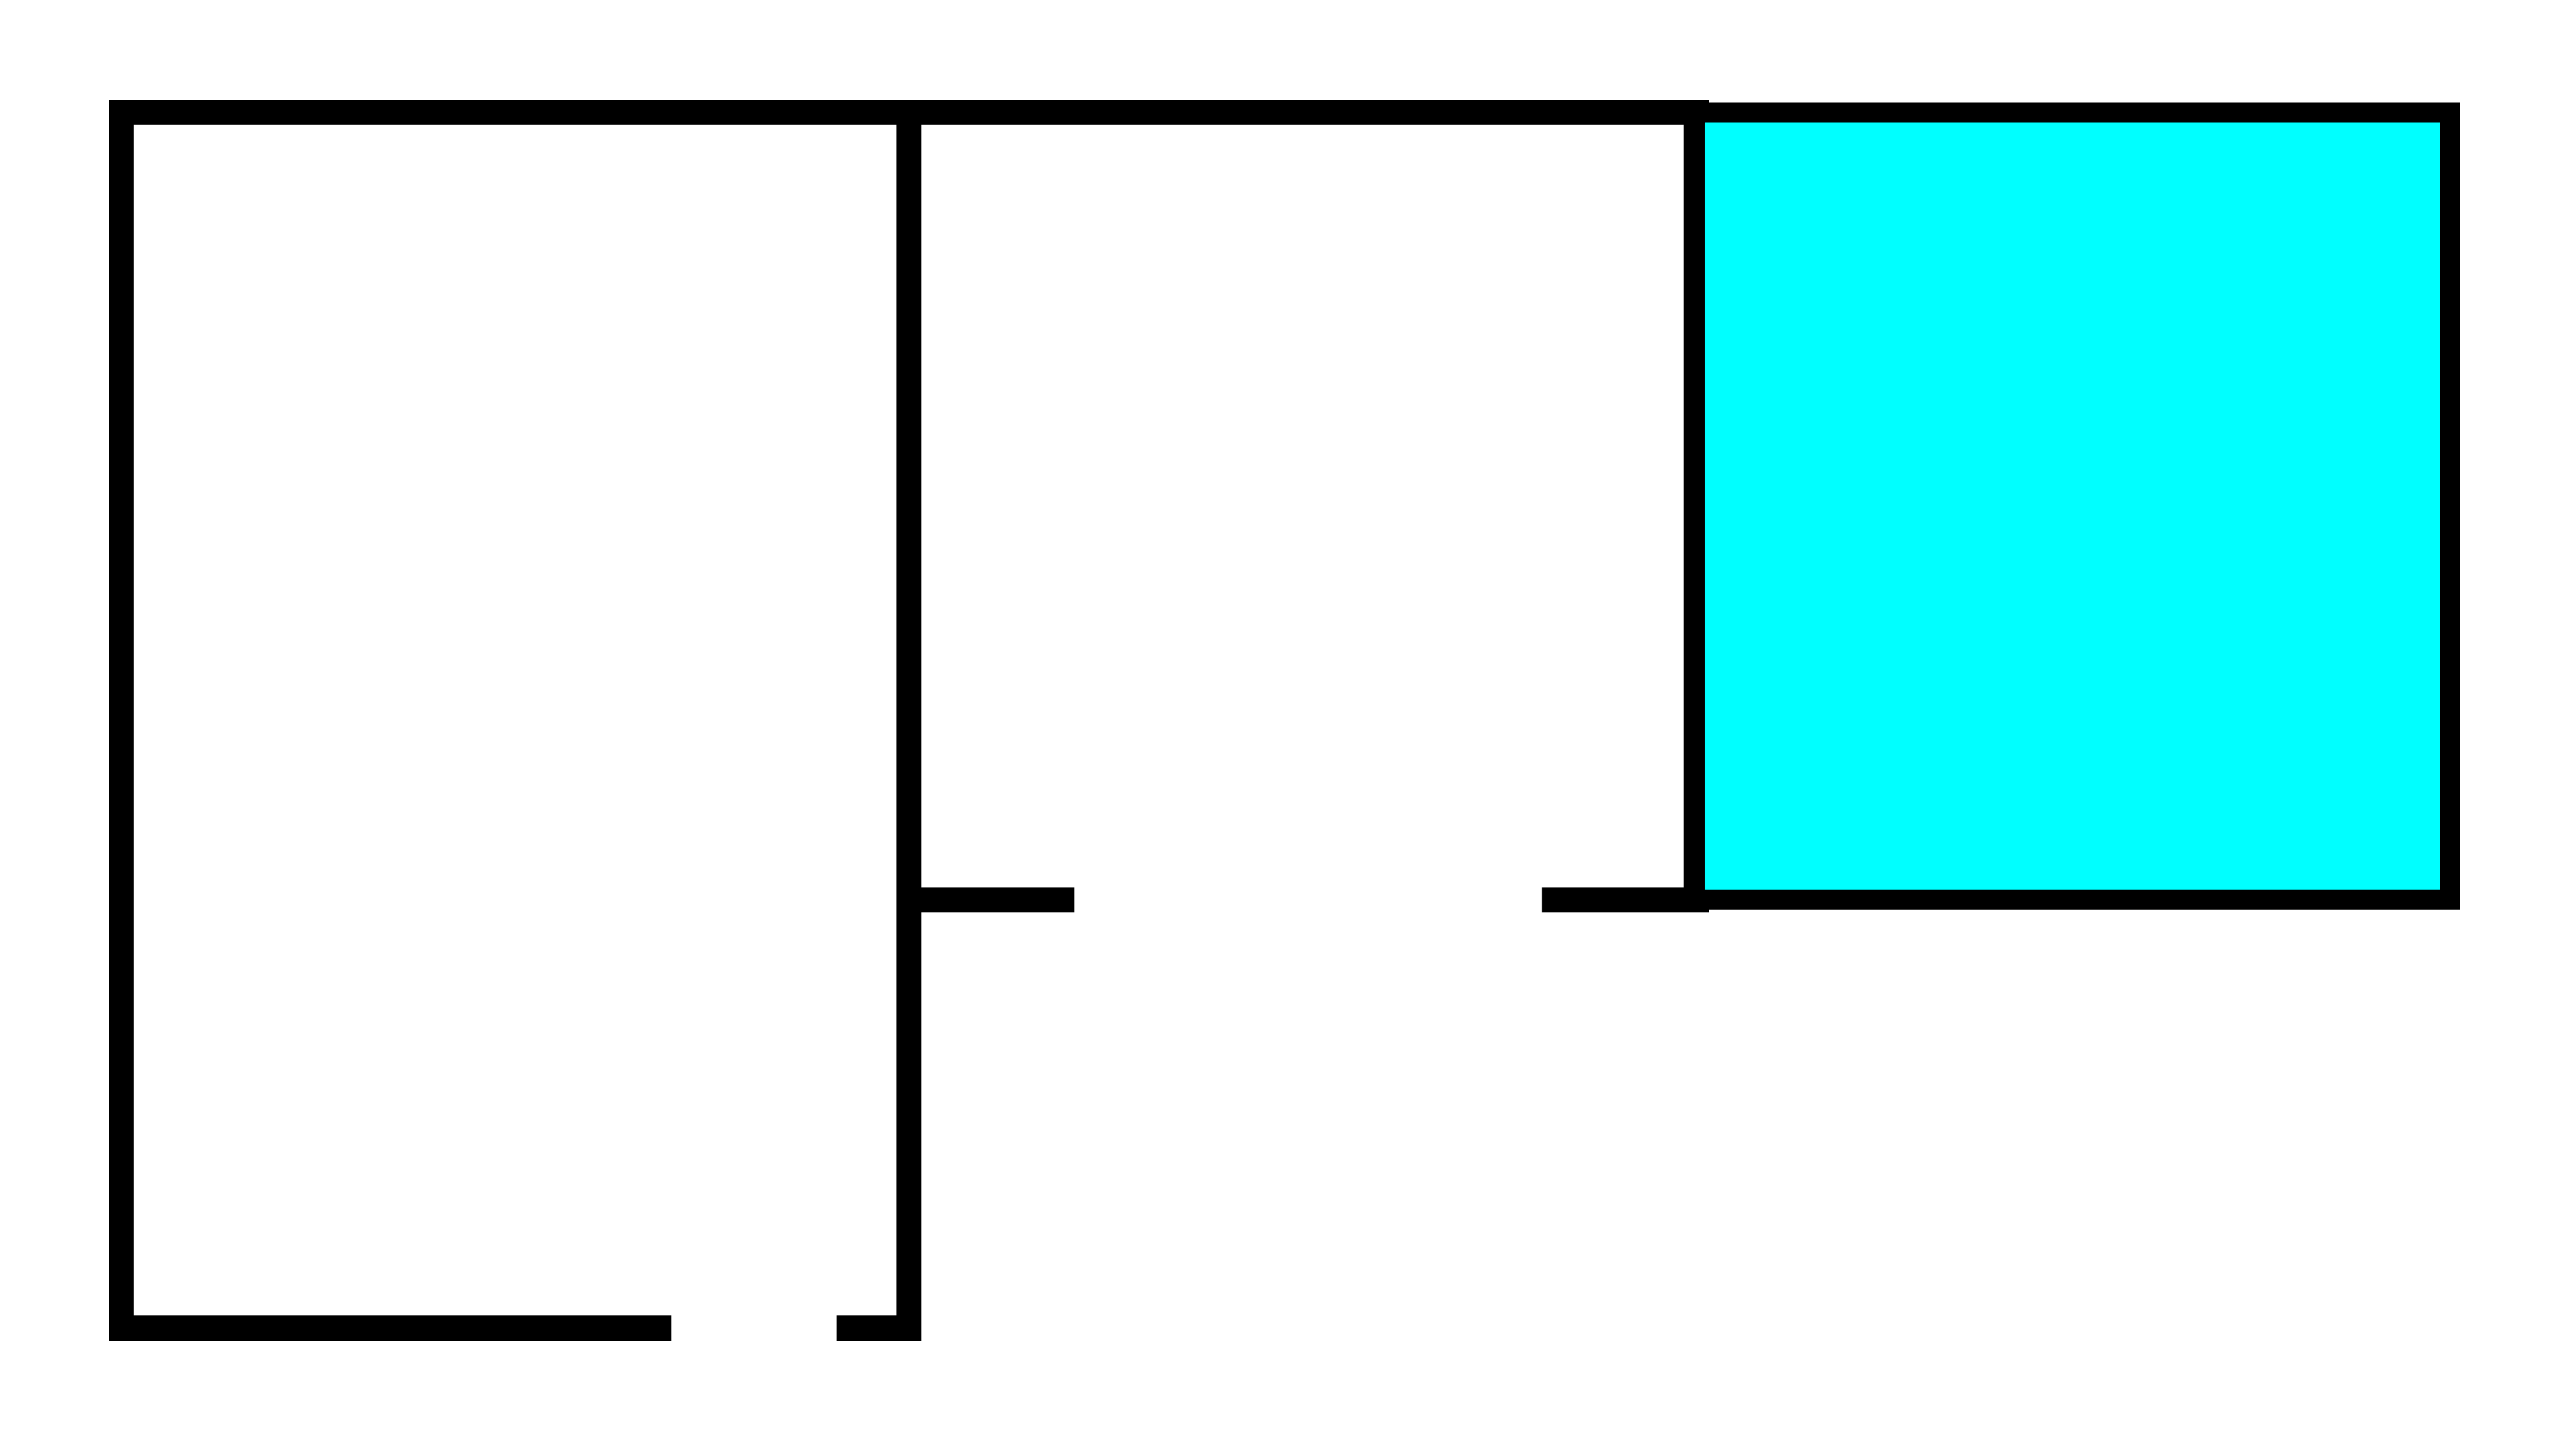
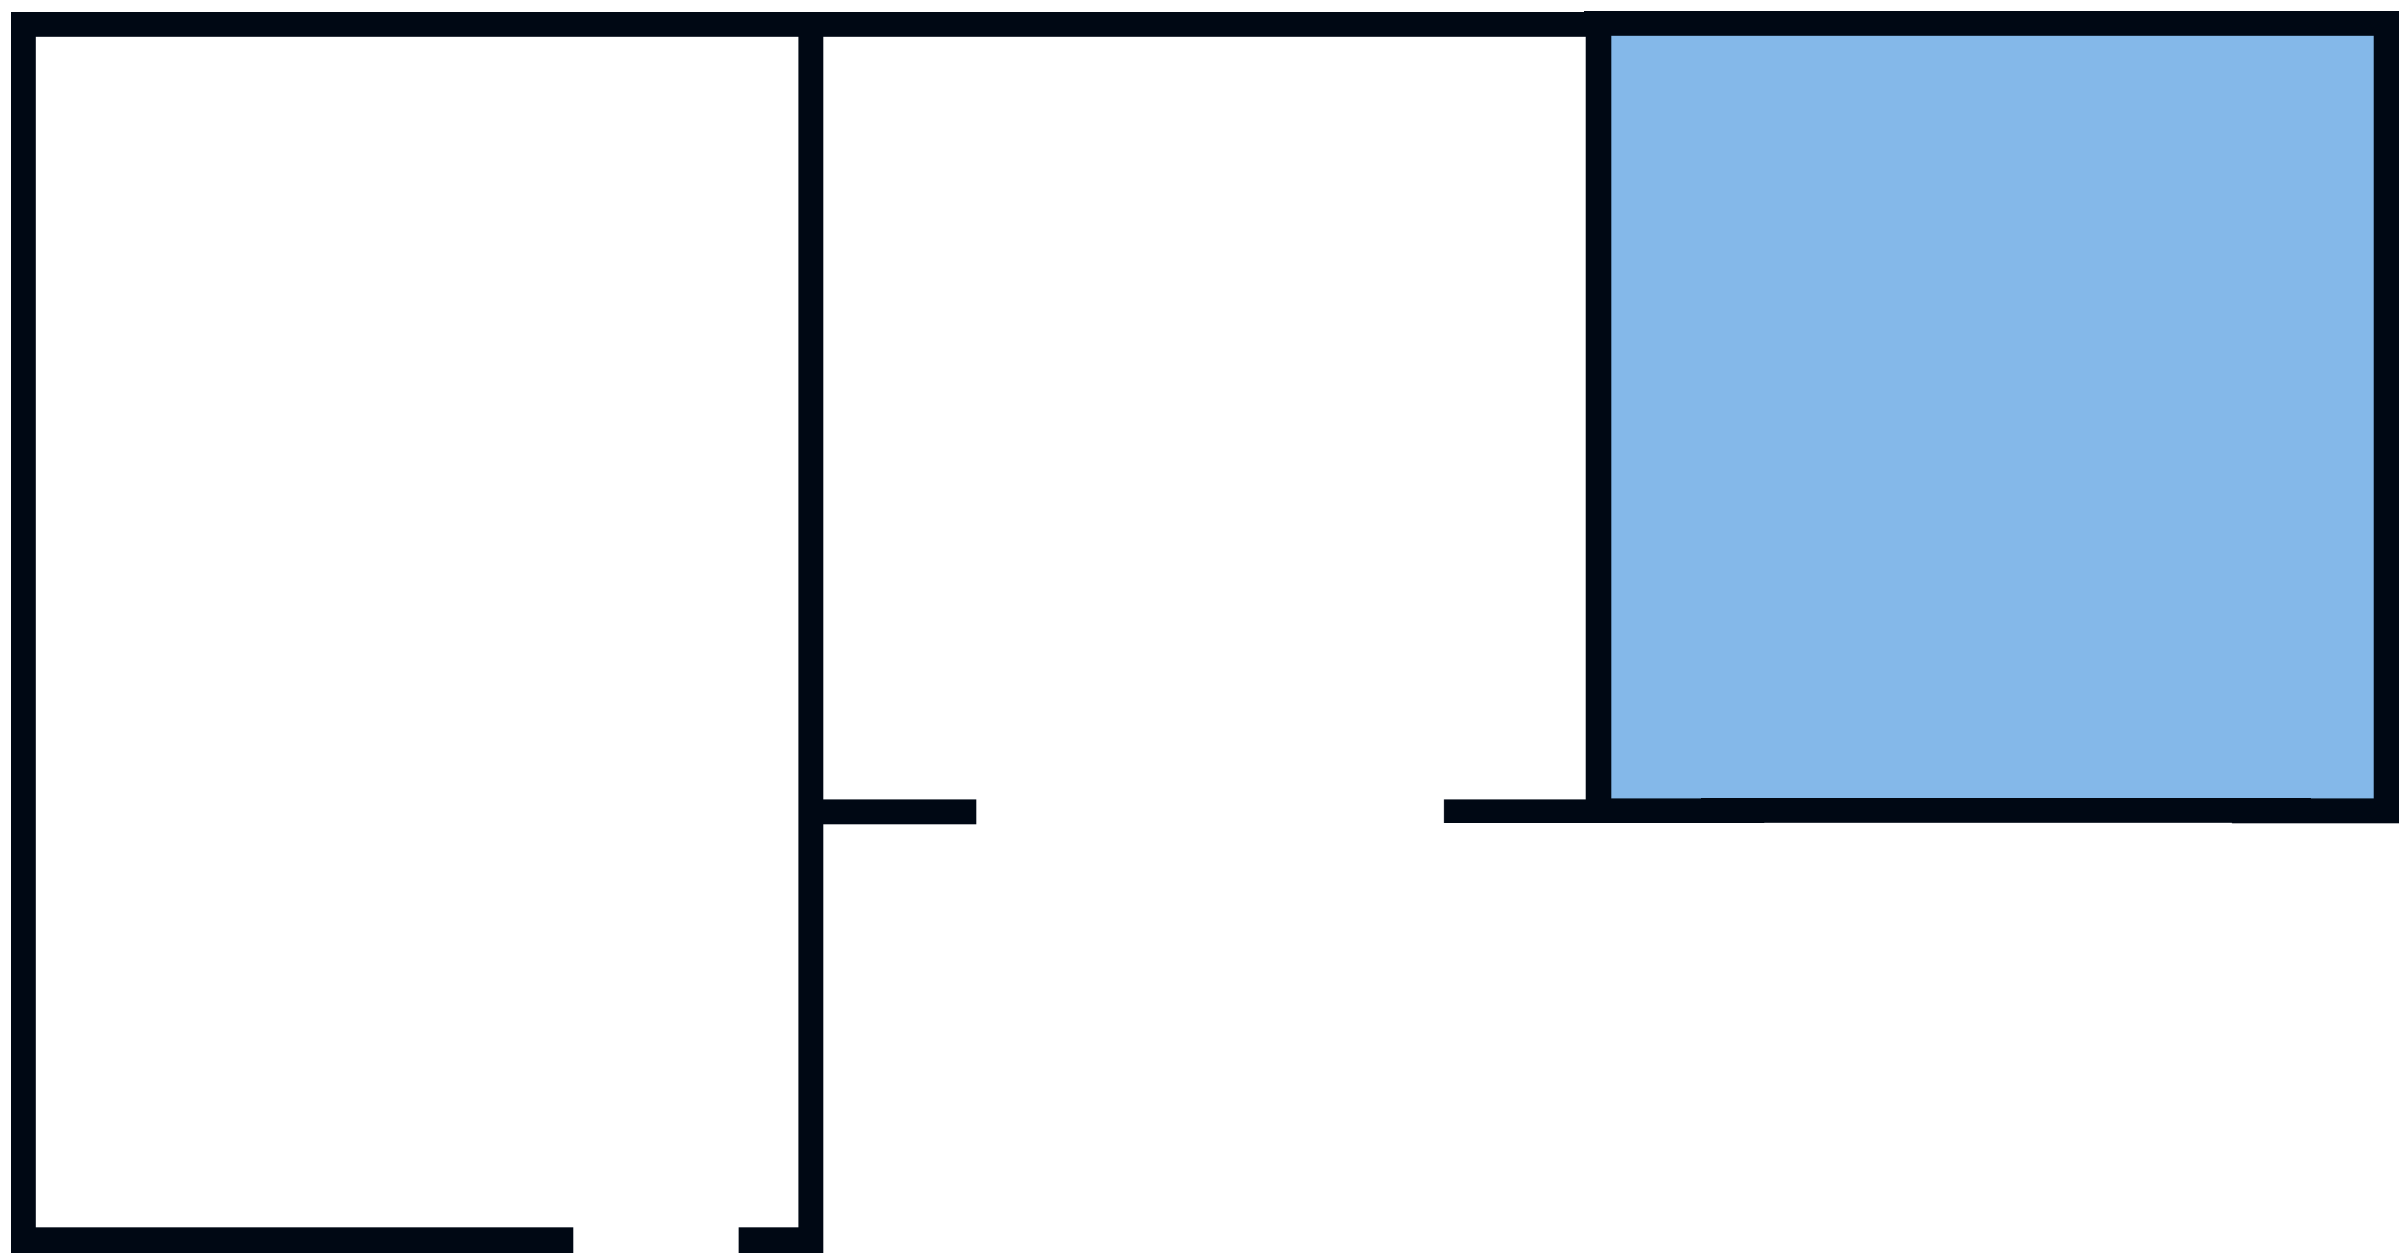
bg change added tooltips

Changed region(s): [[0.0, 0.0, 0.9967, 1.0]]

diff --git a/src/app/components/kuca/kuca.component.html b/src/app/components/kuca/kuca.component.html
@@ -1,26 +1,31 @@
 
-<div class="containerr">
-  <img src="../../assets/images/kuca.png"  class="slikakuce">
-  <div class="hotspots">
-    <div class="hotspot garaza">
-      <div class="button-wrap">
-        <button class='pulse-button' [routerLink]="['/garaza']" >+</button>
+
+  <div class="containerr">
+    
+      <img src="../../assets/images/kuca.png"  class="slikakuce">
+    <div class="hotspots">
+      <div class="hotspot garaza">
+        <div class="button-wrap">
+          <button class='pulse-button' [routerLink]="['/garaza']" tuiHint="Garaza" >+</button>
+        </div>
       </div>
-    </div>
-  
-  
-    <div class="hotspot bazen">
-      <div class="button-wrap">
-        <button class='pulse-button' [routerLink]="['/bazen']">+</button>
+    
+    
+      <div class="hotspot bazen">
+        <div class="button-wrap">
+          <button class='pulse-button' [routerLink]="['/bazen']" tuiHint="Bazen">+</button>
+        </div>
       </div>
-    </div>
-  
-    <div class="hotspot sijalica">
-      <div class="button-wrap">
-        <button class='pulse-button' [routerLink]="['/soba']">+</button>
+    
+      <div class="hotspot sijalica">
+        <div class="button-wrap">
+          <button class='pulse-button' [routerLink]="['/soba']" tuiHint="Soba">+</button>
+        </div>
       </div>
+    
     </div>
-  
+    
+    
   </div>
-  
-</div>
+
+

diff --git a/src/app/home/home.component.css b/src/app/home/home.component.css
@@ -1,7 +1,7 @@
 .container {
-  background-color: #ffd60a;
-  height: 100vh;
-  width: 100vw;
+  background-image: url('../../assets/images/sun-tornado.svg');
+  background-size: cover;
+
   display: grid;
   grid-template-rows: 0fr 1fr;
   height: 100vh;
@@ -24,25 +24,10 @@
   text-align: center;
 }
 
-/* .bottom::before {
-  position: absolute;
-  z-index: -1;
-  content: ' ';
-  aspect-ratio: 675/900;
-  background-image: url('./../../assets/images/layered-waves-haikei.svg');
-    background-repeat: no-repeat;
-    background-position: center;
-    background-size: cover;
-    width: 100vw;
-    transform: rotate(90deg);
-    top: -10rem;
-   
-} */
 
 .bottom {
   margin: auto 0;
   z-index: 100;
-  background-color: #ffd60a;
   grid-area: bottom;
   display: grid;
   grid-template-columns: 2.5fr 1.5fr;
@@ -68,7 +53,6 @@
 @media screen and (max-width: 768px) {
 
   .container {
-    width: 100%;
     grid-template-columns: 1fr;
     grid-template-rows: 0.1fr 2.2fr;
     grid-template-areas: "top"
@@ -78,11 +62,6 @@
     height: fit-content;
   }
 
-  /* .bottom::before {
-    top: -2%;
-    width: 100vw;
-    content: ' ';
-  } */
 
   .bottom {
     grid-template-columns: 1fr;

diff --git a/src/app/components/kuca/kuca.component.less b/src/app/components/kuca/kuca.component.less
@@ -1,23 +1,26 @@
 .slikakuce {
     width: 60vw;
-    height: fit-content;
+    padding: 1.5rem;
     margin: 0 auto;
+    height: fit-content;
+    display: flex;
+    align-items: center;
   }
 
 .garaza {
   top: 31.5%;
-  left: 47.5%;
+  left: 48%;
 }
 
 
 .bazen {
   top: 31.5%;
-  left: 77%;
+  left: 79%;
 }
 
 .sijalica {
   top: 46%;
-  left: 17.5%;
+  left: 16.5%;
 }
 
 .containerr {
@@ -88,19 +91,37 @@
 
 @media screen and (max-width: 768px) {
   .slikakuce {
-    width: 100vw;
+    width: 80vw;
   }
   .garaza {
-    left: 49%;
+    left: 48%;
   }
   
   
   .bazen {
-    left: 79%;
+    left: 74%;
   }
   
   .sijalica {
     top: 46%;
-    left: 17.5%;
+    left: 22%;
   }
+}
+
+:host {
+  --tui-primary: #001d3d;
+    --tui-primary-hover: #003566;
+    --tui-primary-active: #1973c7;
+}
+
+tui-island {
+    color: #001D3D;
+    background: rgba( 255, 255, 255, 0.25 );
+  box-shadow: 0 8px 32px 0 rgba( 31, 38, 135, 0.37 );
+  backdrop-filter: blur( 12.5px );
+  border: 0px #fff; 
+}
+
+::ng-deep .tui-island:not(.tui-island_hoverable):before {
+  border: 0px;
 }

diff --git a/src/app/app.module.ts b/src/app/app.module.ts
@@ -1,6 +1,6 @@
 import { NgDompurifySanitizer } from "@tinkoff/ng-dompurify";
 import { BrowserAnimationsModule } from "@angular/platform-browser/animations";
-import { TuiRootModule, TuiButtonModule, TUI_SANITIZER } from "@taiga-ui/core";
+import { TuiRootModule, TuiButtonModule, TUI_SANITIZER, TuiHintModule } from "@taiga-ui/core";
 import { NgModule } from '@angular/core';
 import { BrowserModule } from '@angular/platform-browser';
 import {TuiIslandModule} from '@taiga-ui/kit';
@@ -28,7 +28,8 @@ import { WelcomeComponent } from './components/welcome/welcome.component';
       BrowserAnimationsModule,
       TuiIslandModule,
       TuiButtonModule,
-      NgxGaugeModule
+      NgxGaugeModule,
+      TuiHintModule
 ],
   providers: [{provide: TUI_SANITIZER, useClass: NgDompurifySanitizer}],
   bootstrap: [AppComponent]

diff --git a/src/app/components/welcome/welcome.component.html b/src/app/components/welcome/welcome.component.html
@@ -1,5 +1,16 @@
 <h1>SCADA</h1>
 
-<p>Dobro dosli na SCADA sistem za upravaljanje smart kucom.
-    Ovu aplikaciju su kreirali Muharem Muharemovic, Indir Karabegovic i Nahid Delic
+<p>Dobro dosli na <strong>SCADA</strong> sistem za upravaljanje smart kucom.
+    Selektujte neku od prostorija za pregled podataka.
 </p>
+
+Ovu aplikaciju su kreirali:
+<ul>
+    <li><h4>Muharem Muharemovic</h4></li>
+    <li><h4>Indir Karabegovic</h4></li>
+    <li><h4>Nahid Delic</h4></li>    
+</ul>
+
+<p>Projekat je napravljen kao projekat za predmet Distribuirani sistemi automaziacije na Fakultetu elektrotehnike u Tuzli.
+</p>
+<a href="https://github.com/Indir99/Smart-home-project-esp8266-RTOS">GITHUB LINK</a>

diff --git a/src/app/home/home.component.html b/src/app/home/home.component.html
@@ -1,15 +1,15 @@
 <tui-root>
   <div class="container">
-    <section class="top">
-      <img src="../../assets/images/logo.png" class="logo" />
-    </section>
-    <section class="bottom">
+    <div class="top">
+      <a [routerLink]="['/']"><img src="../../assets/images/logo.png" class="logo" /></a>
+    </div>
+    <div class="bottom">
       <div class="home">
         <app-kuca></app-kuca>
       </div>
       <div class="controls">
         <router-outlet></router-outlet>
       </div>
-    </section>
+    </div>
   </div>
 </tui-root>

diff --git a/src/app/components/controls/controls.component.css b/src/app/components/controls/controls.component.css
@@ -1,6 +1,5 @@
 
   .main-cont {
-
     padding-right: 2rem;
     display: grid;
     grid-template-rows: 1fr
@@ -62,7 +61,13 @@
   
   }
   tui-island {
+    color: #001D3D;
     background: rgba( 255, 255, 255, 0.25 );
   box-shadow: 0 8px 32px 0 rgba( 31, 38, 135, 0.37 );
   backdrop-filter: blur( 12.5px );
+  border: 0px;
+}
+
+:host ::ng-deep tui-island {
+  border: 0px;
 }

diff --git a/src/styles.less b/src/styles.less
@@ -16,4 +16,6 @@ tui-wrapper[data-appearance='custom'] {
   &[data-state='disabled'] {
       background: #eaecee;
   }
+  
 }
+

diff --git a/src/app/components/welcome/welcome.component.css b/src/app/components/welcome/welcome.component.css
@@ -1,0 +1,8 @@
+h1 {
+    font-size: 5rem;
+}
+
+:host {
+    font-size: 1rem;
+
+}
